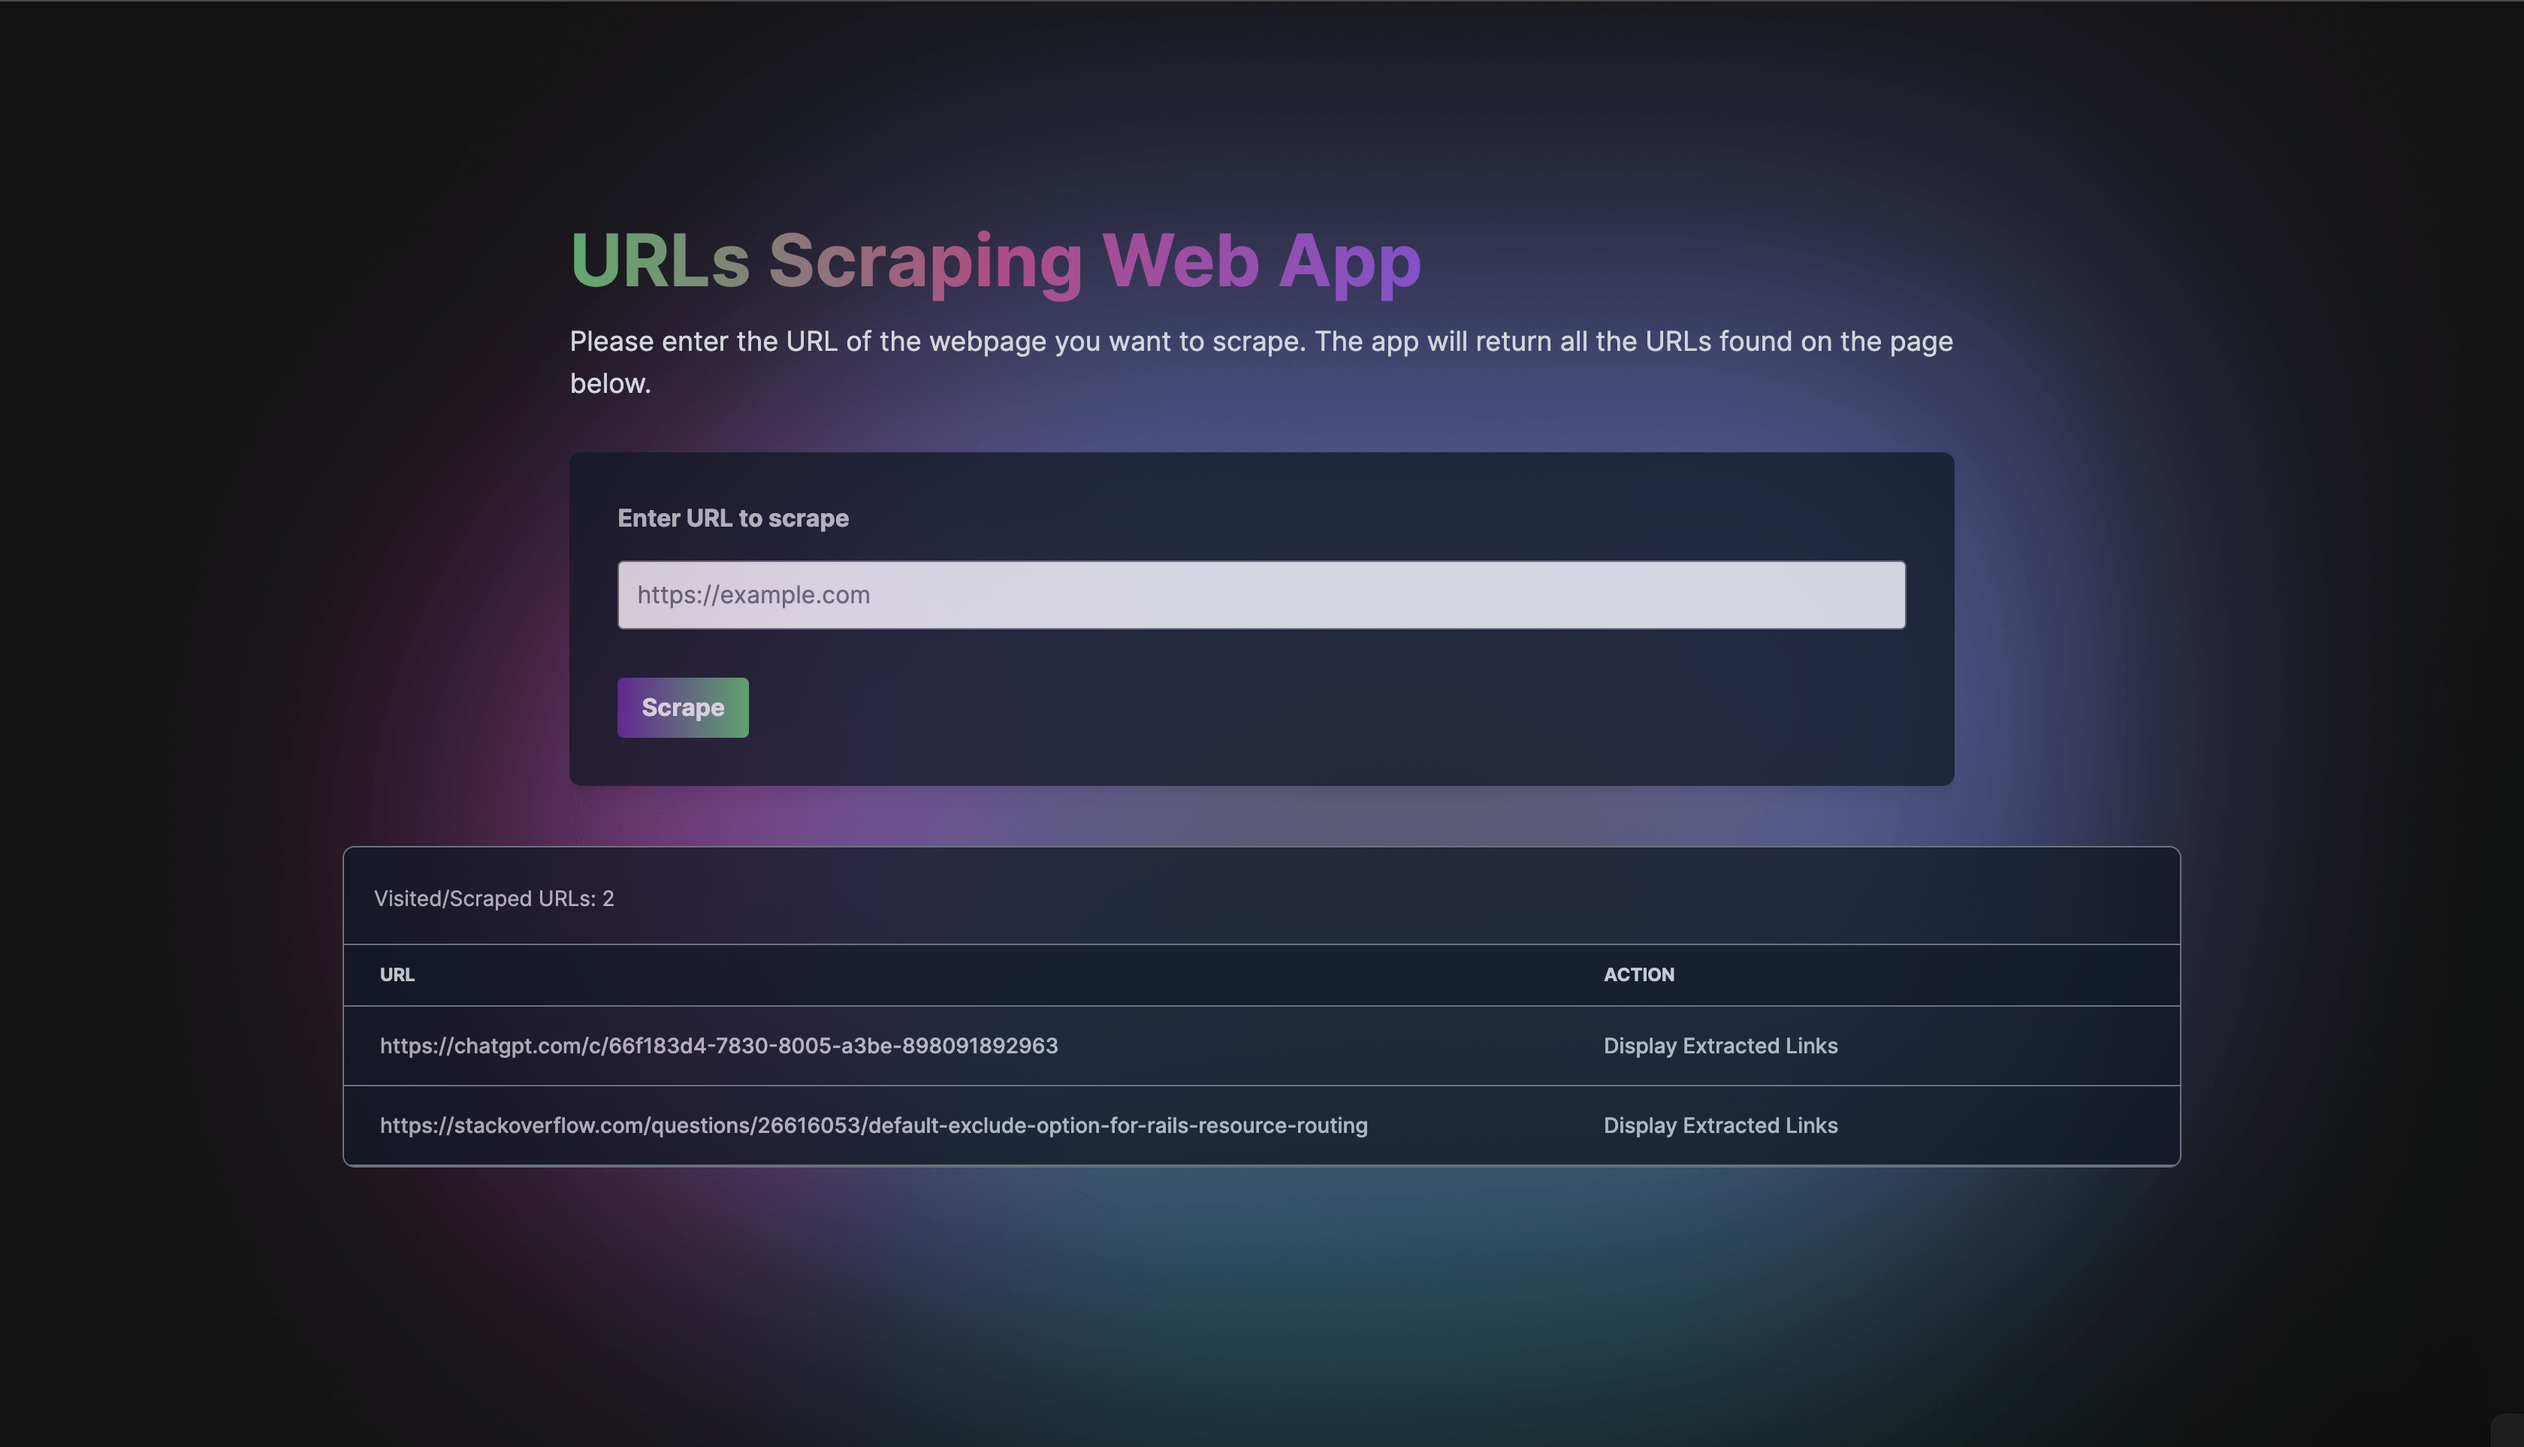
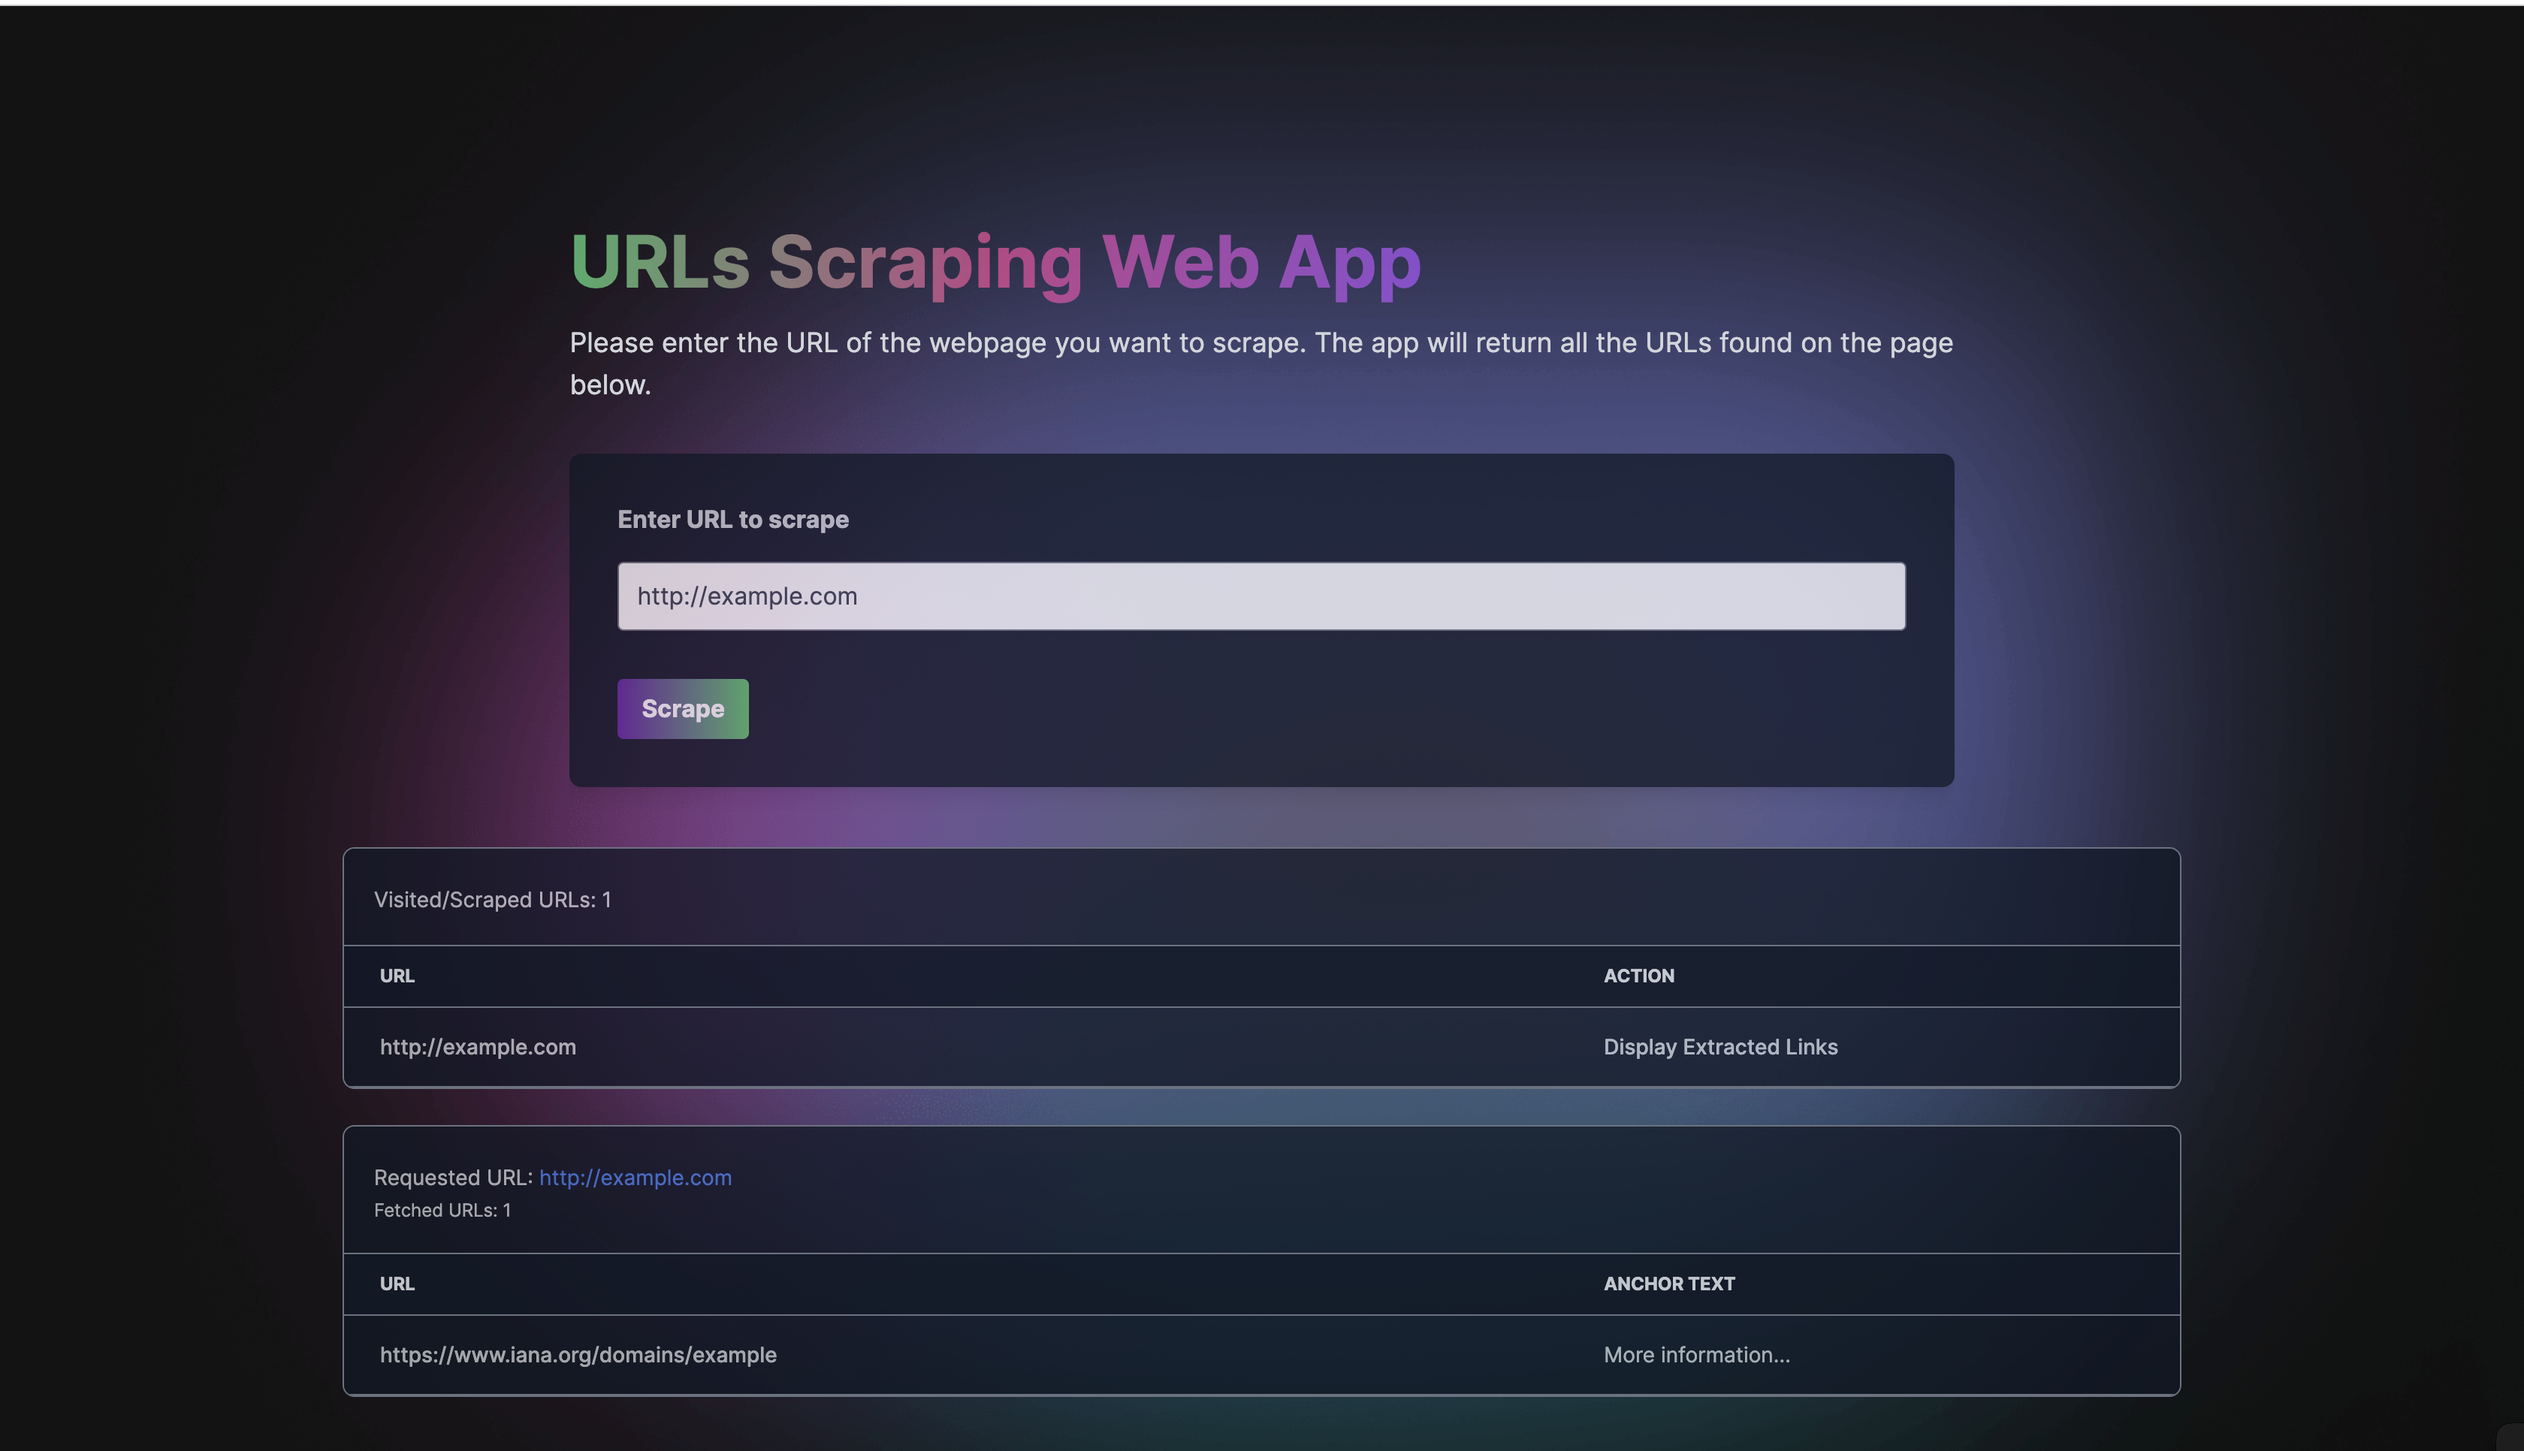
Add seed data

diff --git a/db/seeds.rb b/db/seeds.rb
@@ -1,9 +1,18 @@
-# This file should ensure the existence of records required to run the application in every environment (production,
-# development, test). The code here should be idempotent so that it can be executed at any point in every environment.
-# The data can then be loaded with the bin/rails db:seed command (or created alongside the database with db:setup).
-#
-# Example:
-#
-#   ["Action", "Comedy", "Drama", "Horror"].each do |genre_name|
-#     MovieGenre.find_or_create_by!(name: genre_name)
-#   end
+source_url = SourceUrl.find_or_create_by(url: 'http://example.com')
+
+if source_url.persisted?
+  puts "SourceUrl found or created: #{source_url.url}"
+
+  scraped_url = source_url.scraped_urls.create(
+    url: 'https://www.iana.org/domains/example',
+    anchor_text: 'More information...'
+  )
+
+  if scraped_url.persisted?
+    puts "ScrapedUrl created: #{scraped_url.url} with anchor text: '#{scraped_url.anchor_text}'"
+  else
+    puts "Error creating ScrapedUrl: #{scraped_url.errors.full_messages.join(', ')}"
+  end
+else
+  puts "Error creating SourceUrl: #{source_url.errors.full_messages.join(', ')}"
+end

diff --git a/README.md b/README.md
@@ -6,7 +6,9 @@ To scrape URLs from web pages using a Rails backend, paired with a Vue.js single
 
 ## Overview
 
-This application allows users to input a URL and scrape all the URLs from the page. The scraped URLs are displayed in a table format, showing both the URL and its associated anchor text. Additionally, users can view previously scraped URLs from visited pages.
+- This application allows users to input a URL and scrape all the URLs from the page. The scraped URLs are displayed in a table format, showing both the URL and its associated anchor text.
+- Additionally, users can view previously scraped URLs from visited pages as shown in the screenshot below.
+
 
 ![Home Page Screenshot](public/home_page.png)
 
@@ -45,8 +47,12 @@ yarn install
 ```bash
 rails db:create db:migrate
 ```
+5. To seed the development database, run:
+```bash
+rails db:seed
+```
 
-5. Run the local server:
+6. Run the local server:
 ```bash
 bin/dev
 ```
@@ -67,9 +73,9 @@ In Rails 7, secrets are securely managed using the credentials file. Follow thes
 ```bash
 rails secret
 ```
-2. **Update credentials:** You can use your preferred text editor to update the credentials file. For example, using `nano`:
+2. **Update credentials:** You can use any text editor of your choice to update the credentials file, such as `nano`, `vim`, or `code`. For example, with code, run the following command:
 ```bash
-EDITOR=nano rails credentials:edit --environment development
+EDITOR=code rails credentials:edit --environment development
 ```
 
 Inside the credentials file, add your secrets. since SQLite is being used, no passwords are required.
